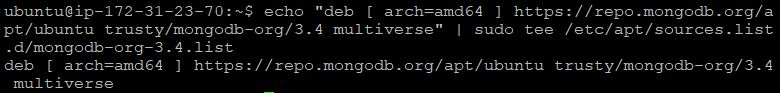
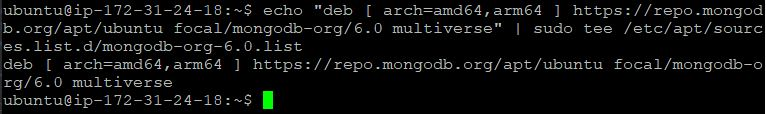
MongoDB installation Steps

Changed region(s): [[0.0, 0.0, 1.0, 1.0], [0.5705, 0.3656, 0.6005, 0.3871]]

diff --git a/project4.md b/project4.md
@@ -29,16 +29,51 @@
         
       ![step4](./project4Pictures/step4_p4.JPG)
 
-1. **INSTALL MONGO DB**: MongoDB stores data in flexible `JASON-like` documents. Fields in a database can vary form document to document and the structure can be changed overtime. 
+1. **INSTALL MONGO DB**: MongoDB stores data in flexible `JASON-like` documents. Fields in a database can vary form document to document and the structure can be changed overtime. our example application, we will add book records to MongoDB that contain bppk name, isbn number, author and number of pages. 
 
-   a. In our example application, we will add book records to MongoDB that contain bppk name, isbn number, author and number of pages.
-   - `sudo apt-key adv --keyserver hkp://keyserver.ubuntu.com:80 --recv 0C49F3730359A14518585931BC711F9BA15703C6`
+   a. Import MongoDB publick key 
+   - `wget -qO - https://www.mongodb.org/static/pgp/server-6.0.asc | sudo apt-key add -`
    
      ![step5](./project4Pictures/step5_p4.JPG)
 
-   - `echo "deb [ arch=amd64 ] https://repo.mongodb.org/apt/ubuntu trusty/mongodb-org/3.4 multiverse" | sudo tee /etc/apt/sources.list.d/mongodb-org-3.4.list`
 
+   b. Create the list file using the command for the version of Ubuntu. In our case Ubuntu 22.04 is jammy  
+   - `echo "deb [ arch=amd64,arm64 ] https://repo.mongodb.org/apt/ubuntu focal/mongodb-org/6.0 multiverse" | sudo tee /etc/apt/sources.list.d/mongodb-org-6.0.list`
+   
      ![step6](./project4Pictures/step6_p4.JPG)
 
-   b. Install MongoDB
-   - `sudo apt install -y mongodb`   
+   c. Reload the local package database  
+   - `sudo apt update`
+   
+     ![step7](./project4Pictures/step7_p4.JPG)
+ 
+
+   d. Install MongoDB  
+   - `sudo apt install -y mongodb-org`
+   
+     ![step8](./project4Pictures/step8_p4.JPG)  
+
+   e. In case you get libssl error from the above command 
+You can download & install the package from http://archive.ubuntu.com/ubuntu/pool/main/o/openssl/ and reinstall MongoDB  
+   - `curl -LO http://archive.ubuntu.com/ubuntu/pool/main/o/openssl/libssl1.1_1.1.1-1ubuntu2.1~18.04.20_amd64.deb`
+   
+     ![step8a](./project4Pictures/step8a_p4.JPG)  
+
+   - `sudo dpkg -i ./libssl1.1_1.1.1-1ubuntu2.1~18.04.20_amd64.deb`
+   
+     ![step8b](./project4Pictures/step8b_p4.JPG) 
+
+   - `sudo apt install -y mongodb-org`
+   
+     ![step8c](./project4Pictures/step8c_p4.JPG)   
+
+   f. Check MongoDB version
+   - `mongod -version`
+   
+     ![step9](./project4Pictures/step9_p4.JPG) 
+
+   g. Start and enable MongoDB and confirm its status
+   - `sudo systemctl start mongod`
+   - `sudo systemctl status mongod`
+   
+     ![step10](./project4Pictures/step10_p4.JPG) 
